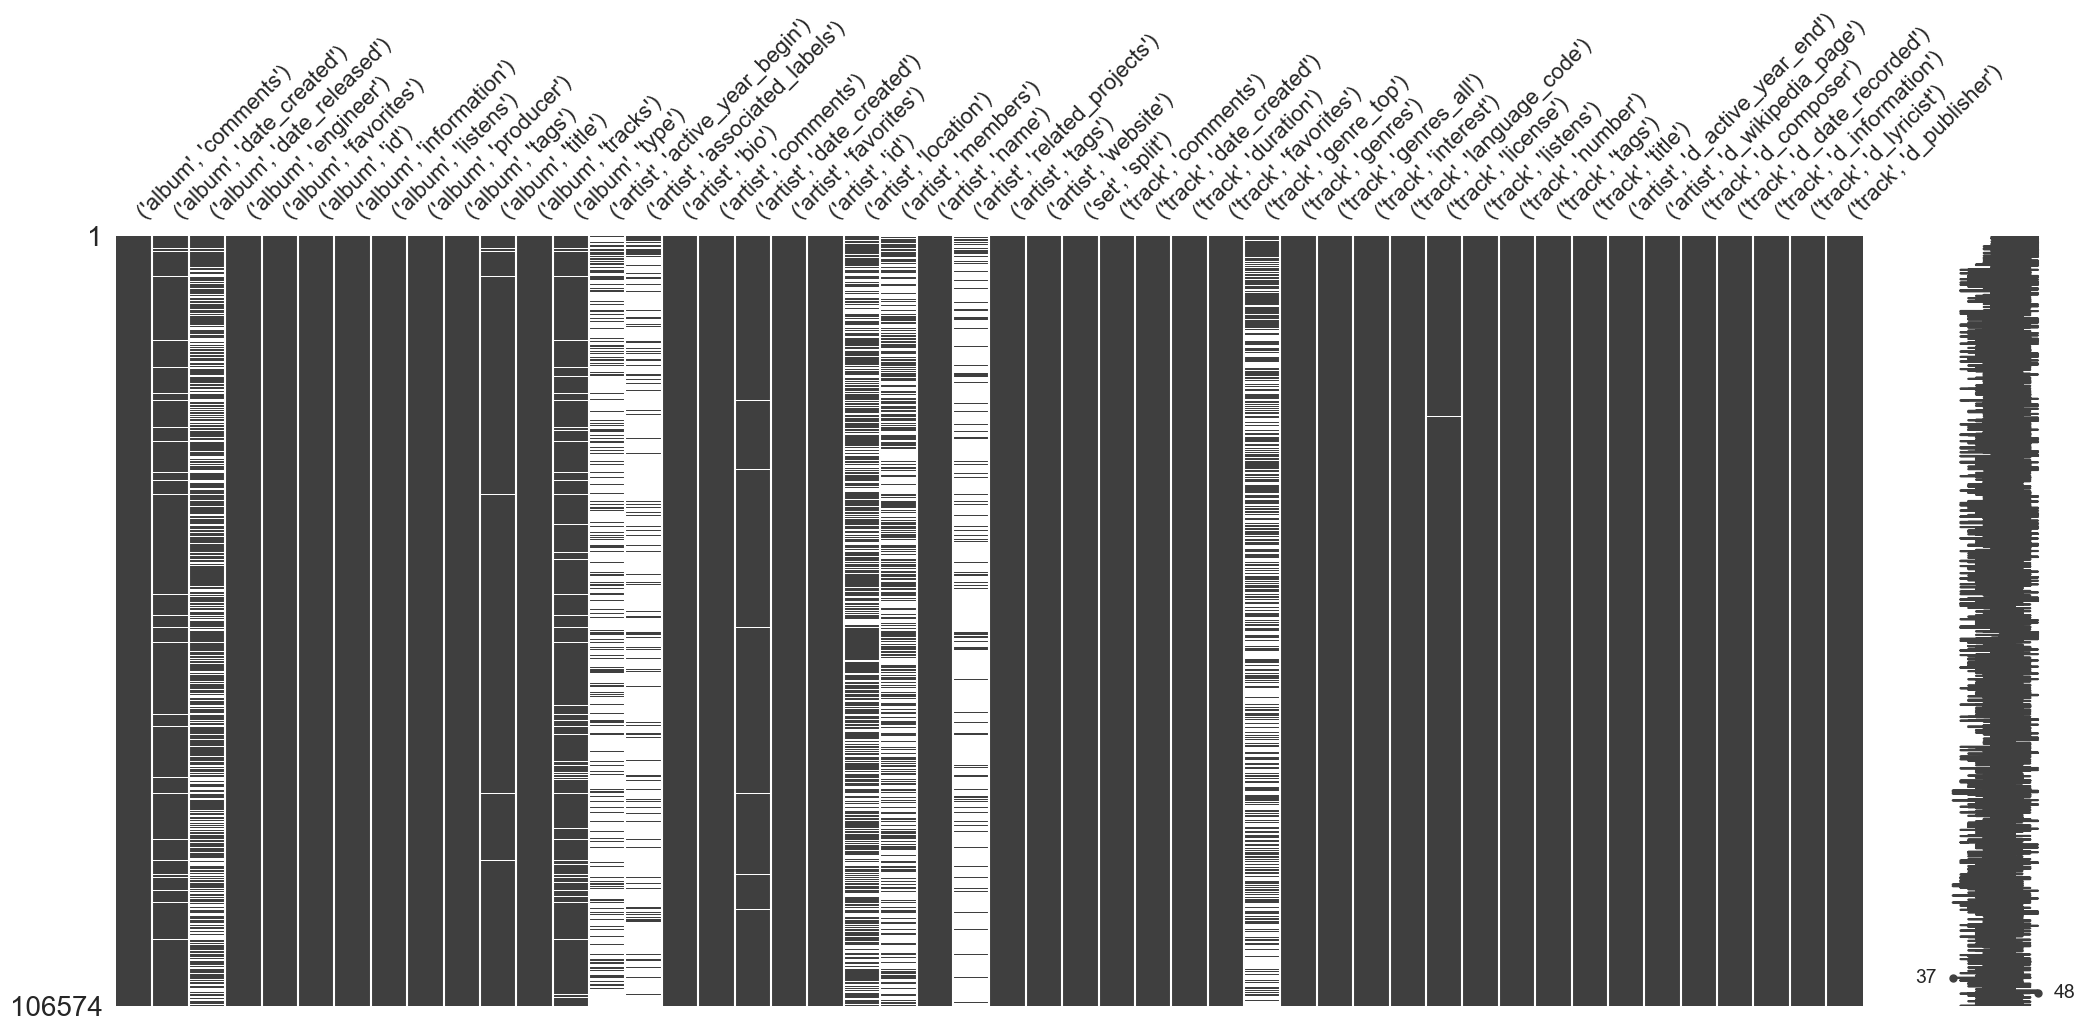
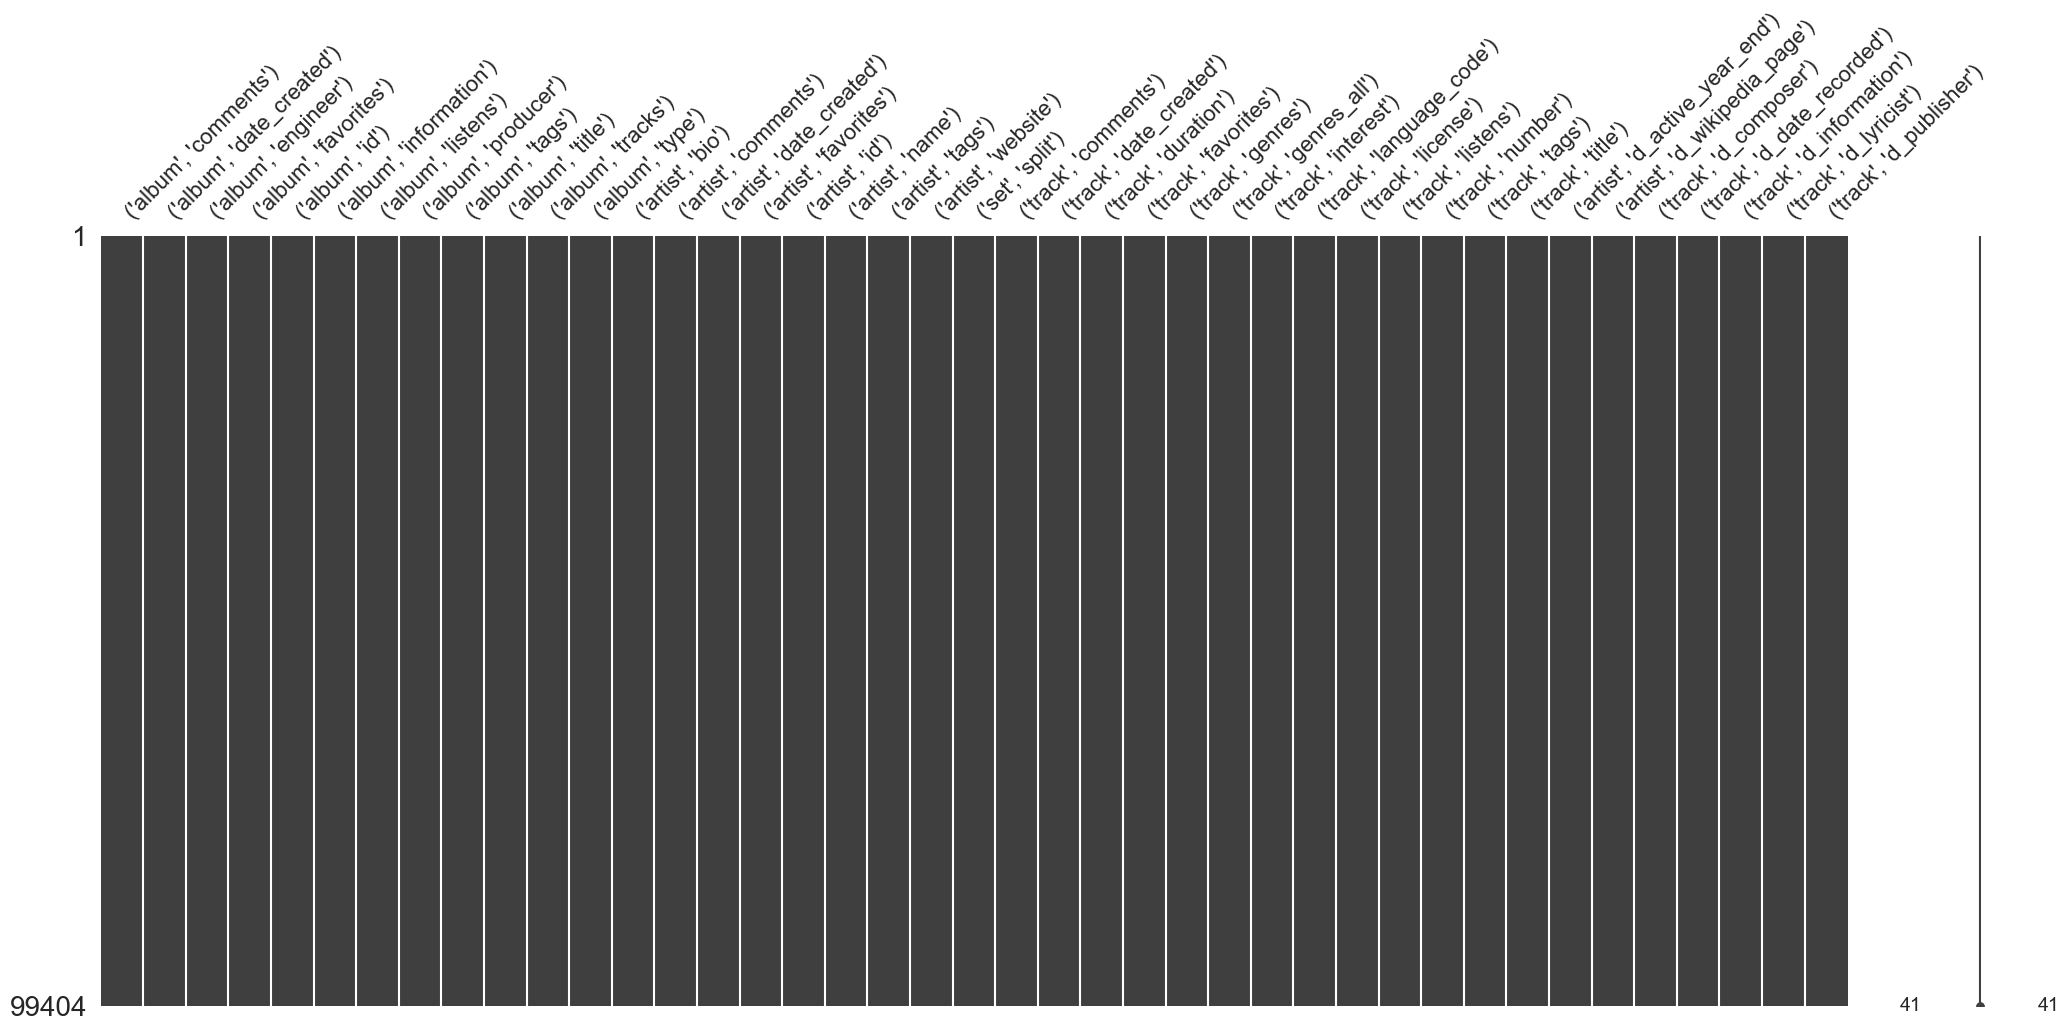
Missing Value Update-Complete dataset

diff --git a/utils.py b/utils.py
@@ -3,6 +3,7 @@ from pathlib import Path
 
 import numpy as np
 import pandas as pd
+from langdetect import detect
 
 try:
     from rich.progress import Progress, track
@@ -41,8 +42,24 @@ def load(filepath, clean=False, dummies=False, fill=False):
     del df[("track", "bit_rate")]
     del df[("artist", "latitude")]
     del df[("artist", "longitude")]
+    del df[("artist", "active_year_begin")]
+    del df[("artist", "associated_labels")]
+    del df[("artist", "related_projects")]
 
-    #check_rules(df, Path("data/rules.txt"))
+    # eliminate per andare avanti che potrebbero servire in seguito
+    del df[("album", "date_released")]
+    del df[("artist", "location")]
+    del df[("artist", "members")]
+    del df[("track", "genre_top")]
+
+    # elimino le row che non hanno album type
+    df = df[df[("album", "type")].notna()]
+
+    # elimino le row che hanno valori mancanti in artist_date_created , track:license e track title
+    df = df[df[("artist", "date_created")].notna()]
+    df = df[df[("track", "license")].notna()]
+    df = df[df[("track", "title")].notna()]
+    # check_rules(df, Path("data/rules.txt"))
 
     if clean:
         df = discretizer(df)
@@ -132,13 +149,13 @@ def discretizer(df):
 
     # text analysis
     # album information ~ is used to state true as presence of information and false the absence
-    df["album", "information"] = ~df["album", "information"].isnull()
+    df["album", "information"] = (~df["album", "information"].isnull()).astype(int)
 
     # artist bio ~ is used to state true as presence of bio and false the absence
-    df["artist", "bio"] = ~df["artist", "bio"].isnull()
+    df["artist", "bio"] = (~df["artist", "bio"].isnull()).astype(int)
 
     # album producer ~ is used to state true as presence of producer and false the absence
-    df["album", "producer"] = ~df["album", "producer"].isnull()
+    df["album", "producer"] = (~df["album", "producer"].isnull()).astype(int)
 
     # track comments
     bins = [-np.inf, 0, np.inf]
@@ -147,7 +164,7 @@ def discretizer(df):
 
     # track duration
     bins = [-np.inf, 60, 120, np.inf]
-    labels = ["1min", "2min", "morethan3min"]
+    labels = ["1min", "2min", "+3min"]
     df["track", "duration"] = pd.cut(df["track", "duration"], bins=bins, labels=labels)
 
     # track favorites
@@ -163,7 +180,7 @@ def discretizer(df):
     )
 
     # artist website - ~ is used to state true as presence of website stated and false the absence
-    df["artist", "website"] = ~df["artist", "website"].isnull()
+    df["artist", "website"] = (~df["artist", "website"].isnull()).astype(int)
 
     # album listens
     bins = [-np.inf, -1, 10000, 50000, 150000, np.inf]
@@ -186,7 +203,12 @@ def discretizer(df):
     df["track", "listens"] = pd.cut(df["track", "listens"], bins=bins, labels=labels)
 
     # album engineer ~ is used to state true as presence of engineer and false the absence
-    df["album", "engineer"] = ~df["album", "engineer"].isnull()
+    df["album", "engineer"] = (~df["album", "engineer"].isnull()).astype(int)
+
+    # fill language_code
+    df["track", "language_code"] = df["track", "language_code"].fillna(
+        detect(str(df["track", "title"]))
+    )
 
     return df
 
@@ -277,11 +299,6 @@ def check_rules(df: pd.DataFrame, rules_path: Path) -> pd.DataFrame:
 
 def clean(df):
     pass
-    # 1. discretizzare ciò che ha senso sia discretizzato
-
-    # 2. provare a vedere se dà informazioni la dummizzazione delle colonne con coverage <10%
-
-    # 3. matrice di correlazione
 
     # 4. check di consistenza: come?
 

diff --git a/usage.py b/usage.py
@@ -8,15 +8,16 @@ import utils
 pretty.install()
 # genres = utils.load(Path("data/genres.csv"))
 # echonest = utils.load(Path("data/echonest.csv"))
-tracks = utils.load(Path("data/tracks.csv"))
+tracks = utils.load(Path("data/tracks.csv"), clean=True, dummies=True)
 # artists = utils.load(Path("data/raw_artists.csv"))
 
 
 print("Here are informations on tracks")
 print(tracks.info())
+print("ciao")
 
-#my_df = tracks.query(f"not ('album', 'listens') < 0")
-#print(my_df)
+# my_df = tracks.query(f"not ('album', 'listens') < 0")
+# print(my_df)
 
 # errors = utils.check_rules(tracks, Path("data/rules.txt"))
 # print(errors)

diff --git a/MissingValue.py b/MissingValue.py
@@ -9,8 +9,12 @@ from langdetect import detect
 
 sns.set_theme(style="white")
 
+
 tracks = utils.load(Path("data/tracks.csv"), clean=True, dummies=True)
-tracks["track", "language_code"] = tracks["track", "language_code"].fillna(detect(str(tracks["track", "title"])))
+
+# fill dataCreated_ data released
+
+# sistemare questione generi
 
 y = mso.matrix(tracks)
 print(y)
@@ -19,5 +23,3 @@ y = plt.savefig(Path("viz/missing_matrix.png"), bbox_inches="tight")
 x = mso.bar(tracks)
 print(x)
 x = plt.savefig(Path("viz/missing_bar.png"), bbox_inches="tight")
-
-
